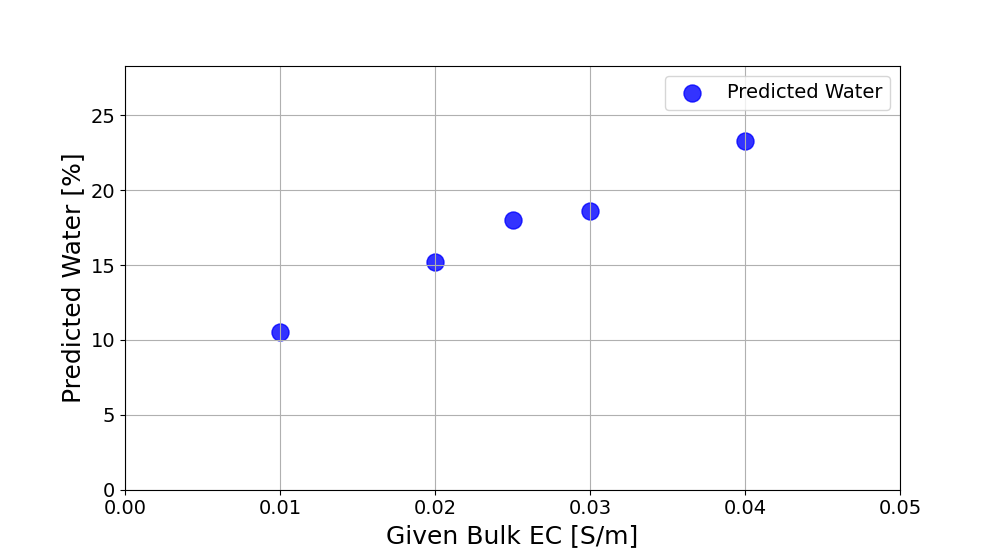
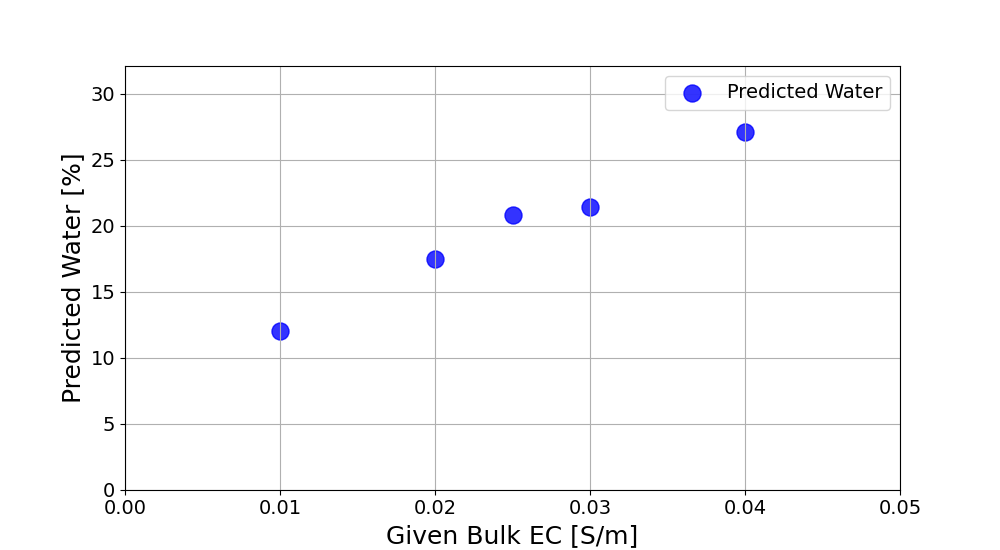
..

diff --git a/TestPedophysics3D.py b/TestPedophysics3D.py
@@ -1,0 +1,131 @@
+import streamlit as st
+import matplotlib.pyplot as plt
+import numpy as np
+import pandas as pd
+from pedophysics.simulate import Soil
+from pedophysics import predict
+from matplotlib import cm
+from matplotlib.colors import to_hex
+import plotly.graph_objects as go
+cmap=plt.get_cmap('viridis')
+# Function to map water content to color
+def get_color_by_water_content(water_content, min_val=0.0, max_val=1.0):
+    """
+    Maps water content (normalized between min_val and max_val) to a color.
+    """
+    normalized_value = (water_content - min_val) / (max_val - min_val)  # Normalize between 0 and 1
+    colormap = cmap # Colormap from dry (red) to wet (blue)
+    rgba_color = colormap(normalized_value)  # Get RGBA color
+    hex_color = to_hex(rgba_color)  # Convert to HEX
+    return hex_color
+
+# Streamlit app title
+st.title("Soil Property Prediction App")
+
+# Sidebar inputs for soil properties
+st.sidebar.header("Input Soil Properties")
+bulk_ec = st.sidebar.text_input("Bulk EC (comma-separated)", "0.01, 0.02, 0.025, 0.03, 0.04")
+clay = st.sidebar.text_input("Clay Content (comma-separated or single value)", "10, 12, 8, 15, 7")
+porosity = st.sidebar.slider("Porosity", 0.0, 1.0, 0.4)
+water_ec = st.sidebar.slider("Water EC", 0.0, 1.0, 0.5)
+
+# Parse inputs
+bulk_ec_values = [float(val.strip()) for val in bulk_ec.split(",")]
+clay_values = [float(val.strip()) for val in clay.split(",")] if "," in clay else float(clay)
+
+# Generate soil objects and predictions
+soil_sample = Soil(bulk_ec=bulk_ec_values, clay=clay_values, porosity=porosity, water_ec=water_ec)
+predicted_water = predict.Water(soil_sample)
+
+# Display input values
+st.write("### Input Values")
+st.write(f"**Bulk EC:** {bulk_ec_values}")
+st.write(f"**Clay Content:** {clay_values}")
+st.write(f"**Porosity:** {porosity}")
+st.write(f"**Water EC:** {water_ec}")
+
+# Display predicted water content
+st.write("### Predicted Water Content")
+st.write(predicted_water)
+
+# Get the average predicted water content
+average_water_content = np.nanmean(predicted_water)  # Use nanmean to handle any NaN values
+
+# Map water content to color
+cube_color = get_color_by_water_content(average_water_content, min_val=0.0, max_val=1.0)
+
+# Create scatter plot
+st.write("### Scatter Plot of Predicted Water Content")
+fig, ax = plt.subplots(figsize=(10, 5.5))
+ss = 150
+ax.scatter(soil_sample.bulk_ec, predicted_water * 100, color='blue', alpha=0.8, s=ss, label="Predicted Water")
+ax.set_xlim(0, max(bulk_ec_values) + 0.01)
+ax.set_ylim(0, max(predicted_water) * 100 + 5)
+ax.set_xlabel('Given Bulk EC [S/m]', fontsize=18)
+ax.set_ylabel('Predicted Water [%]', fontsize=18)
+ax.tick_params(axis='y', labelsize=14)
+ax.tick_params(axis='x', labelsize=14)
+ax.grid(True)
+ax.legend(loc='upper right', fontsize=14)
+st.pyplot(fig)
+
+# Add 3D cube for water content visualization
+st.write("### 3D Cube Representation of Water Content")
+st.write(f"**Average Water Content:** {average_water_content:.2f}")
+st.write(f"**Cube Color (Based on Water Content):** {cube_color}")
+
+# Create 3D cube
+fig_3d = go.Figure()
+
+# Define cube vertices
+vertices = [
+    [0, 0, 0], [1, 0, 0], [1, 1, 0], [0, 1, 0],  # Bottom face
+    [0, 0, 1], [1, 0, 1], [1, 1, 1], [0, 1, 1],  # Top face
+]
+
+# Define cube faces
+faces = [
+    [0, 1, 5, 4],  # Front
+    [1, 2, 6, 5],  # Right
+    [2, 3, 7, 6],  # Back
+    [3, 0, 4, 7],  # Left
+    [4, 5, 6, 7],  # Top
+    [0, 1, 2, 3],  # Bottom
+]
+
+# Add cube to the figure
+fig_3d.add_trace(go.Mesh3d(
+    x=[v[0] for v in vertices],
+    y=[v[1] for v in vertices],
+    z=[v[2] for v in vertices],
+    color=cube_color,
+    opacity=0.8,
+    i=[f[0] for f in faces],
+    j=[f[1] for f in faces],
+    k=[f[2] for f in faces],
+    name="Water Content Cube",
+))
+
+# Customize the figure
+fig_3d.update_layout(
+    scene=dict(
+        xaxis=dict(visible=False),
+        yaxis=dict(visible=False),
+        zaxis=dict(visible=False),
+    ),
+    margin=dict(l=0, r=0, t=0, b=0),
+)
+
+# Render the 3D cube
+st.plotly_chart(fig_3d)
+
+# Notes section
+st.write("### Notes")
+st.markdown("""
+- **Bulk EC:** The electrical conductivity of the bulk soil sample.
+- **Clay Content:** The percentage of clay in the soil, which can be entered as a single value or a list.
+- **Porosity:** The fraction of the soil volume that is occupied by pores.
+- **Water EC:** The electrical conductivity of the water phase in the soil.
+
+Adjust the input values in the sidebar to see how they affect the predicted water content, the scatter plot, and the 3D cube.
+""")

diff --git a/TestPedophysics.py b/TestPedophysics.py
@@ -52,6 +52,7 @@ sample2 = Soil( bulk_ec = [0.01, 0.02, 0.025, np.nan, 0.030, 0.040],
                 water_ec = 0.5)
 
 sample2_water = predict.Water(sample2)
+sample2.df.to_csv('test.csv',index=False)
 print('sample2_water', sample2_water)
 print('sample2.info.water', sample2.info.water)
 print('sample2.info.bulk_ec', sample2.info.bulk_ec)
